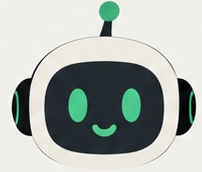
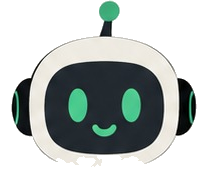
fix(brand): remover fondo crema de imagenes de Yum para transparencia pura

diff --git a/apps/web/scripts/remove-yum-background.py b/apps/web/scripts/remove-yum-background.py
@@ -1,0 +1,138 @@
+"""Remove the pale border-connected backdrop from Yum WebP assets.
+
+Run from apps/web: python3 scripts/remove-yum-background.py
+"""
+
+from collections import deque
+import argparse
+from pathlib import Path
+from statistics import median
+
+from PIL import Image
+
+
+IMAGE_DIR = Path(__file__).resolve().parents[1] / "public/images/yum"
+
+
+def remove_background(path: Path) -> tuple[int, int]:
+    with Image.open(path) as source:
+        image = source.convert("RGBA")
+    width, height = image.size
+    pixels = image.load()
+    assert pixels is not None
+
+    # The wave pose already has a true alpha cutout. Leave its hand-finished edge intact.
+    if all(pixels[x, y][3] == 0 for x, y in ((0, 0), (width - 1, 0),
+                                               (0, height - 1), (width - 1, height - 1))):
+        return 0, width * height
+
+    corners = []
+    for x0, y0 in ((0, 0), (width - 8, 0), (0, height - 8), (width - 8, height - 8)):
+        for y in range(y0, y0 + 8):
+            for x in range(x0, x0 + 8):
+                if pixels[x, y][3] > 200:
+                    corners.append(pixels[x, y][:3])
+    background = tuple(int(median(channel)) for channel in zip(*corners))
+
+    def is_background(x: int, y: int) -> bool:
+        red, green, blue, alpha = pixels[x, y]
+        delta = (abs(red - background[0]), abs(green - background[1]), abs(blue - background[2]))
+        return alpha > 0 and max(delta) <= 10 and sum(delta) <= 22
+
+    outside = bytearray(width * height)
+    queue: deque[tuple[int, int]] = deque()
+
+    def add(x: int, y: int) -> None:
+        index = y * width + x
+        if not outside[index] and is_background(x, y):
+            outside[index] = 1
+            queue.append((x, y))
+
+    for x in range(width):
+        add(x, 0)
+        add(x, height - 1)
+    for y in range(height):
+        add(0, y)
+        add(width - 1, y)
+
+    while queue:
+        x, y = queue.popleft()
+        if x > 0:
+            add(x - 1, y)
+        if x + 1 < width:
+            add(x + 1, y)
+        if y > 0:
+            add(x, y - 1)
+        if y + 1 < height:
+            add(x, y + 1)
+
+    removed = 0
+    for y in range(height):
+        for x in range(width):
+            if outside[y * width + x]:
+                pixels[x, y] = (0, 0, 0, 0)
+                removed += 1
+
+    # Remove the pale antialias fringe adjoining the erased backdrop.
+    for _ in range(2):
+        fringe = []
+        for y in range(height):
+            for x in range(width):
+                red, green, blue, alpha = pixels[x, y]
+                if not alpha:
+                    continue
+                delta = (abs(red - background[0]), abs(green - background[1]), abs(blue - background[2]))
+                if max(delta) > 27 or sum(delta) > 59:
+                    continue
+                if any(
+                    pixels[nx, ny][3] == 0
+                    for nx, ny in ((x - 1, y), (x + 1, y), (x, y - 1), (x, y + 1))
+                    if 0 <= nx < width and 0 <= ny < height
+                ):
+                    fringe.append((x, y))
+        for x, y in fringe:
+            pixels[x, y] = (0, 0, 0, 0)
+        removed += len(fringe)
+
+    # Discard detached backdrop marks, including labels baked into some originals.
+    seen = bytearray(width * height)
+    components: list[list[tuple[int, int]]] = []
+    for y in range(height):
+        for x in range(width):
+            index = y * width + x
+            if seen[index] or pixels[x, y][3] == 0:
+                continue
+            seen[index] = 1
+            component = []
+            queue.append((x, y))
+            while queue:
+                cx, cy = queue.popleft()
+                component.append((cx, cy))
+                for nx, ny in ((cx - 1, cy), (cx + 1, cy), (cx, cy - 1), (cx, cy + 1),
+                               (cx - 1, cy - 1), (cx + 1, cy - 1), (cx - 1, cy + 1), (cx + 1, cy + 1)):
+                    if 0 <= nx < width and 0 <= ny < height:
+                        next_index = ny * width + nx
+                        if not seen[next_index] and pixels[nx, ny][3] > 0:
+                            seen[next_index] = 1
+                            queue.append((nx, ny))
+            components.append(component)
+    if components:
+        largest = max(components, key=len)
+        for component in components:
+            if component is largest:
+                continue
+            for x, y in component:
+                pixels[x, y] = (0, 0, 0, 0)
+            removed += len(component)
+
+    image.save(path, "WEBP", lossless=True, exact=True, method=6)
+    return removed, width * height
+
+
+if __name__ == "__main__":
+    parser = argparse.ArgumentParser(description=__doc__)
+    parser.add_argument("--directory", type=Path, default=IMAGE_DIR)
+    args = parser.parse_args()
+    for asset in sorted(args.directory.glob("*.webp")):
+        removed, total = remove_background(asset)
+        print(f"{asset.name}: {removed}/{total} background pixels made transparent")
